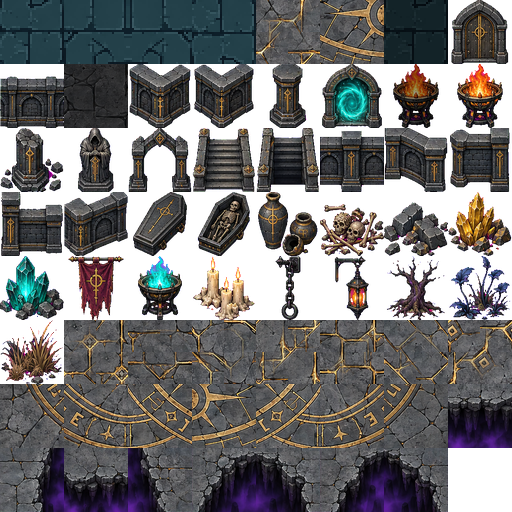
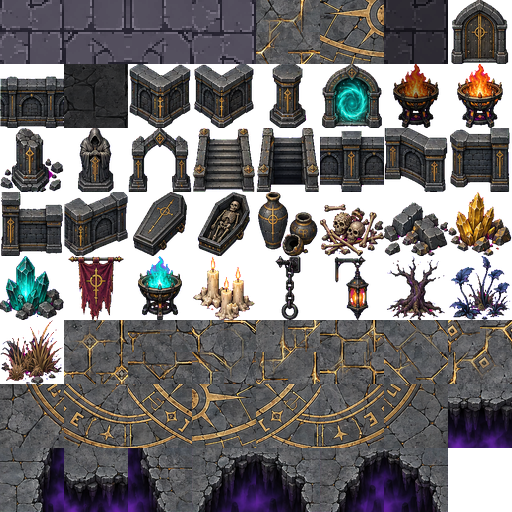
fix(arte): ataque regerado, piso cinza-arroxeado e cena de teste do arqueiro PixelLab
Claude-Session: https://claude.ai/code/session_018RafTHGjA4tAWi2cN2zL6H

Changed region(s): [[0.0, 0.0, 0.5, 0.125], [0.75, 0.0, 0.875, 0.125]]

diff --git a/tools/sprites2d/cena_teste_pixellab.py b/tools/sprites2d/cena_teste_pixellab.py
@@ -1,0 +1,23 @@
+#!/usr/bin/env python3
+"""Cena de teste: arqueiro (folha run) andando sobre o piso novo, braseiro ao lado. Escala de mundo 2,5. Saída: PNG."""
+import sys, os
+from PIL import Image
+R = os.path.join(os.path.dirname(__file__), "..", "..")
+G = os.path.join(R, "godot", "art2d")
+out = sys.argv[1]
+atlas = Image.open(os.path.join(G, "tiles", "cripta_tiles.png")).convert("RGBA")
+W, H = 960, 400
+cena = Image.new("RGBA", (W, H))
+for y in range(0, H, 64):
+    for x in range(0, W, 64):
+        cena.alpha_composite(atlas.crop((((x // 64 + y // 64) % 4) * 64, 0, ((x // 64 + y // 64) % 4) * 64 + 64, 64)), (x, y))
+Q = 92
+sh = Image.open(os.path.join(G, "sprites", "arqueiro", "arqueiro_run.png")).convert("RGBA")
+for i, d in enumerate([0, 1, 2, 3, 4]):
+    f = sh.crop((((i) % 6) * Q, d * Q, ((i) % 6) * Q + Q, d * Q + Q))
+    f = f.resize((int(Q * 2.5), int(Q * 2.5)), Image.NEAREST)
+    cena.alpha_composite(f, (60 + i * 140 - 115, 120))
+b = Image.open(os.path.join(G, "pixellab", "braseiro_pedra_48x64.png")).convert("RGBA")
+b = b.resize((int(48 * 2.5), int(64 * 2.5)), Image.NEAREST)
+cena.alpha_composite(b, (780, 140))
+cena.save(out)

diff --git a/tools/sprites2d/montar_arqueiro_pixellab.py b/tools/sprites2d/montar_arqueiro_pixellab.py
@@ -33,6 +33,17 @@ def rot(d):
     return centro(Image.open(os.path.join(SRC, "rotations", d + ".png")).convert("RGBA"))
 
 
+def arco_marrom(im):
+    """O modelo pintou o arco de vermelho vivo em algumas direções: volta para o marrom do arco."""
+    px = im.load()
+    for y in range(im.height):
+        for x in range(im.width):
+            r, g, b, a = px[x, y]
+            if a and r > 170 and g < 110 and b < 90:
+                px[x, y] = (int(r * 0.62), int(g * 1.25 + 30), int(b * 1.1 + 18), a)
+    return im
+
+
 def deslocar(im, dx, dy):
     o = Image.new("RGBA", im.size, (0, 0, 0, 0))
     o.alpha_composite(im, (dx, dy))
@@ -59,7 +70,7 @@ def salvar(nome, linhas):
 
 def main():
     salvar("run", [anim("walking", d) for d in DIRS])
-    salvar("attack", [anim("attack", d) for d in DIRS])
+    salvar("attack", [[arco_marrom(f) for f in anim("attack2", d)] for d in DIRS])
     salvar("idle", [[deslocar(rot(d), 0, o) for o in (0, 0, 0, 1, 1, 0)] for d in DIRS])
     salvar("hit", [[flash(deslocar(rot(d), -DX[d] * s, 0), k) for s, k in ((1, 0.8), (2, 0.4), (1, 0.0))] for d in DIRS])
     dod = []

diff --git a/tools/sprites2d/aplicar_piso_pixellab.py b/tools/sprites2d/aplicar_piso_pixellab.py
@@ -7,7 +7,14 @@ R = os.path.join(os.path.dirname(__file__), "..", "..")
 atlas_p = os.path.join(R, "godot", "art2d", "tiles", "cripta_tiles.png")
 a = Image.open(os.path.join(R, "art-src", "pixellab", "cenario", "wang_0.png")).convert("RGBA")
 b = Image.open(os.path.join(R, "art-src", "pixellab", "cenario", "wang_15.png")).convert("RGBA")
-up = lambda im: im.resize((64, 64), Image.NEAREST)
+def tint(im):
+    """Teal do PixelLab -> cinza-arroxeado frio do atlas das paredes (mapeia luminância)."""
+    g = ImageOps.grayscale(im.convert("RGB"))
+    lo, hi = g.getextrema()
+    mapa = ImageOps.colorize(ImageOps.autocontrast(g), (26, 24, 36), (128, 122, 138), mid=(70, 66, 80))
+    mapa.putalpha(im.getchannel("A"))
+    return mapa
+up = lambda im: tint(im).resize((64, 64), Image.NEAREST)
 var = [up(a), up(b), ImageOps.mirror(up(b)), ImageOps.flip(up(a))]
 escuro = ImageEnhance.Brightness(up(a)).enhance(0.55)
 A = Image.open(atlas_p).convert("RGBA")

diff --git a/docs/arte/31_pixellab_arqueiro.md b/docs/arte/31_pixellab_arqueiro.md
@@ -6,4 +6,6 @@ Substitui o v7 feito à mão (Will achou ruim). Plano grátis (40 gerações; us
 - Brutos em `art-src/pixellab/arqueiro/` (rotações e animações por direção). `tools/sprites2d/montar_arqueiro_pixellab.py` monta as folhas (quadro 92, pivô 46,76; linhas S, SE, E, NE, N). idle, hit e dodge são derivados (respiração de 1 px, flash branco, andar com salto).
 - Piso: `create-tileset` 32 px, ampliado 2x para as células 0..3 e 6 do atlas (`tools/sprites2d/aplicar_piso_pixellab.py`). Braseiro 48x64 via `create-image-pixflux`, em `godot/art2d/pixellab/`, ainda não ligado (o tile do braseiro tem a chama tratada por `clima_2d.gd`).
 
-Limitações conhecidas: a animação de ataque gerada atira para o lado direito do quadro nas direções S/SE/E e esconde a flecha em NE/N (a âncora de disparo fica na mão do arco); o piso azul-esverdeado destoa das paredes cinzas do atlas pintado; idle quase parado.
+Segunda rodada (05/11): ataque regerado ("attack2", sem flecha no prompt; o modelo ainda desenha uma flecha pequena em S/E/NE/N, a flecha de verdade sai como projétil do motor) e arco vermelho de E corrigido para marrom; piso recolorido para cinza-arroxeado do atlas; cena de teste em `tools/sprites2d/cena_teste_pixellab.py`.
+
+Limitações conhecidas (antes da 2ª rodada, a do piso azulado está resolvida): a animação de ataque gerada atira para o lado direito do quadro nas direções S/SE/E e esconde a flecha em NE/N (a âncora de disparo fica na mão do arco); o piso azul-esverdeado destoa das paredes cinzas do atlas pintado; idle quase parado.
